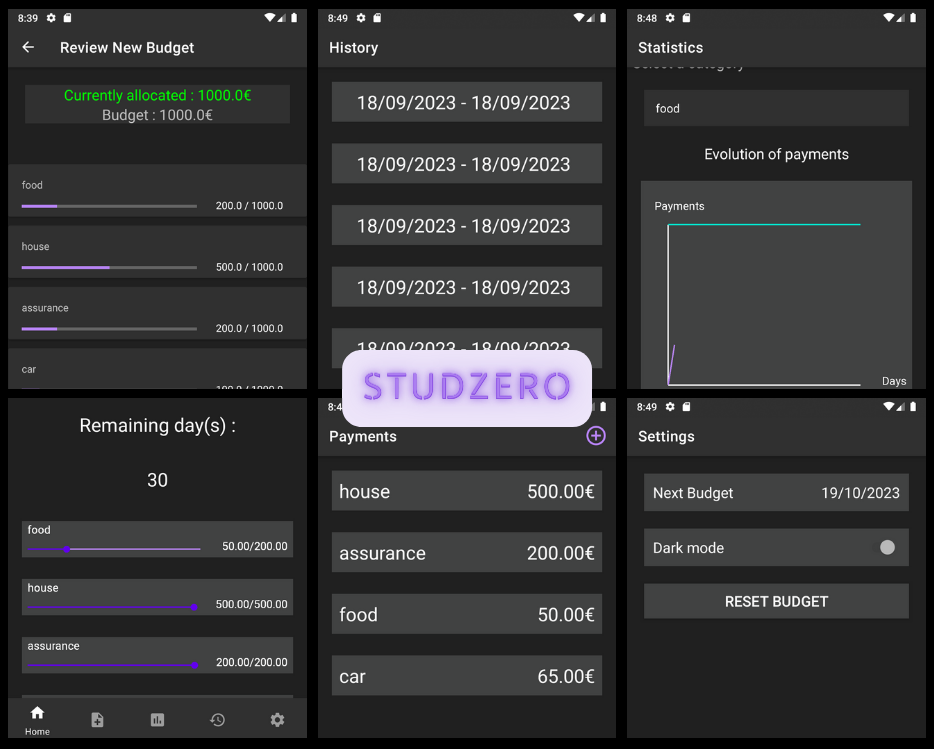
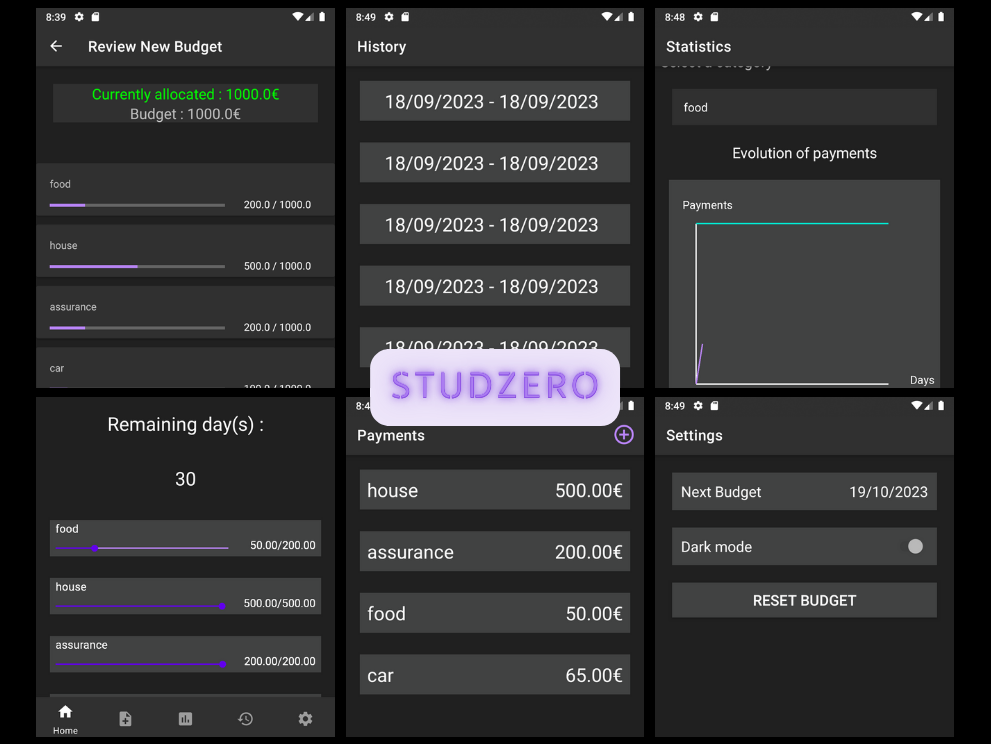
feat: project section

diff --git a/src/app/components/project/project.component.scss b/src/app/components/project/project.component.scss
@@ -1,0 +1,89 @@
+@import "../../../styles.scss";
+
+.--section {
+  display: grid;
+  grid-template-areas:
+    "a b"
+    "c d";
+  align-items: stretch;
+  margin: 0.125rem;
+  gap: 1rem;
+
+  .card {
+    width: 100%;
+    display: flex;
+    flex-direction: column;
+    justify-content: baseline;
+    align-items: baseline;
+    gap: 0.5rem;
+    border: solid 1px var(--gray-low);
+    border-radius: 1rem;
+    overflow: hidden;
+    height: 100%;
+    margin-bottom: 0.5rem;
+
+    .--p1 {
+      font-size: 0.875rem;
+      color: var(--gray70);
+    }
+
+    .thumbnail {
+      width: 100%;
+    }
+
+    .margin0 {
+      margin: 0;
+      padding-inline: 0.875rem;
+    }
+
+    .skills-container {
+      display: flex;
+      align-items: flex-end;
+      flex-grow: 5;
+      padding-inline: 0.875rem;
+      gap: 0.25rem;
+
+      .skill-icon {
+        width: 1.5rem;
+        height: 1.5rem;
+      }
+    }
+
+    .github-btn-container {
+      padding-inline: 0.875rem;
+      padding-bottom: 0.875rem;
+      text-decoration: none;
+
+      div {
+        gap: 0.25rem;
+        display: flex;
+        justify-content: center;
+        align-items: center;
+        background-color: var(--gray100);
+        padding: 0.25rem;
+        border-radius: 0.5rem;
+        img {
+          width: 1.25rem;
+          height: 1.25rem;
+          background-color: var(--gray100);
+        }
+
+        p {
+          background-color: var(--gray100);
+          color: var(--gray0);
+          font-weight: 400;
+          font-size: 0.825rem;
+          margin: 0;
+        }
+      }
+    }
+
+    .github-btn-container:hover {
+      opacity: 0.7;
+    }
+  }
+
+  .card:hover {
+    filter: drop-shadow(0.25rem 0.25rem 0.25rem var(--gray-low));
+  }
+}

diff --git a/src/app/components/project/project.component.ts b/src/app/components/project/project.component.ts
@@ -1,10 +1,39 @@
-import { Component } from '@angular/core';
+import { Component, OnInit } from '@angular/core';
+import { HttpClient } from '@angular/common/http';
+import { NgFor } from '@angular/common';
+import { Project } from '../../models/project';
+import { ThemeService } from '../../services/theme.service';
 
 @Component({
   selector: 'app-project',
-  imports: [],
+  imports: [NgFor],
   templateUrl: './project.component.html',
   styleUrl: './project.component.scss',
   standalone: true,
 })
-export class ProjectComponent {}
+export class ProjectComponent implements OnInit {
+  projects: Project[] = [];
+  isDarkTheme: boolean;
+
+  constructor(
+    private readonly http: HttpClient,
+    private readonly themeService: ThemeService
+  ) {
+    this.isDarkTheme = document.body.classList.contains('dark-theme');
+  }
+
+  ngOnInit(): void {
+    this.http
+      .get<{ projects: Project[] }>('./assets/data.json')
+      .subscribe((data) => {
+        this.projects = data.projects;
+      });
+  }
+
+  getIcon(path: string): string {
+    this.isDarkTheme = document.body.classList.contains('dark-theme');
+    return this.isDarkTheme
+      ? `assets/img/light/${path}`
+      : `assets/img/dark/${path}`;
+  }
+}

diff --git a/src/app/components/project/project.component.html b/src/app/components/project/project.component.html
@@ -1,1 +1,30 @@
-<p>project works!</p>
+<div class="--section">
+  <div *ngFor="let project of projects">
+    <div class="card">
+      <a [href]="project.github">
+        <img
+          class="thumbnail"
+          [src]="project.thumbnail"
+          alt="project thumbnail"
+        />
+      </a>
+      <h2 class="--h2 margin0">{{ project.name }}</h2>
+      <p class="--p2 margin0">{{ project.dates }}</p>
+      <p class="--p1 margin0">{{ project.desc }}</p>
+      <div class="skills-container">
+        <img
+          *ngFor="let skill of project.icons"
+          [src]="skill"
+          alt="skill icon"
+          class="skill-icon"
+        />
+      </div>
+      <a [href]="project.github" class="github-btn-container">
+        <div>
+          <img [src]="getIcon('github.png')" alt="github" />
+          <p>GitHub</p>
+        </div>
+      </a>
+    </div>
+  </div>
+</div>

diff --git a/src/app/app.component.ts b/src/app/app.component.ts
@@ -5,6 +5,7 @@ import { EducationComponent } from './components/education/education.component';
 import { CertificationComponent } from './components/certification/certification.component';
 import { SectionHeaderComponent } from './components/section-header/section-header.component';
 import { AboutComponent } from './components/about/about.component';
+import { ProjectComponent } from './components/project/project.component';
 
 @Component({
   selector: 'app-root',
@@ -16,6 +17,7 @@ import { AboutComponent } from './components/about/about.component';
     CertificationComponent,
     SectionHeaderComponent,
     AboutComponent,
+    ProjectComponent,
   ],
   templateUrl: './app.component.html',
   styleUrl: './app.component.scss',

diff --git a/src/app/app.component.html b/src/app/app.component.html
@@ -19,6 +19,7 @@
       title="Featured Projects"
       desc="I build projects from 0 to 1, turning ideas into reality. Take a look at some of my favorite projects below."
     />
+    <app-project></app-project>
   </section>
   <section id="contact">
     <app-section-header

diff --git a/src/app/components/header/header.component.scss b/src/app/components/header/header.component.scss
@@ -8,6 +8,7 @@
   justify-content: center;
   top: 1.25rem;
   background-color: transparent;
+  z-index: 10;
 
   .outline {
     background-color: var(--gray-low);

diff --git a/src/styles.scss b/src/styles.scss
@@ -53,6 +53,7 @@
   font-weight: 500;
   font-size: 0.75rem;
   line-height: 1rem;
+  color: var(--gray70);
 }
 
 .--gray100 {
